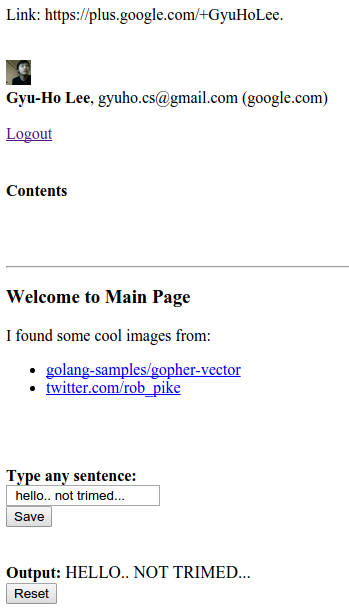
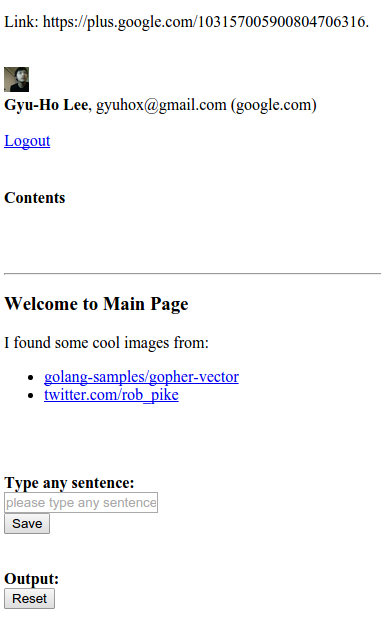
new screenshot

diff --git a/doc/go_web_application_deploy_container/code/main.go b/doc/go_web_application_deploy_container/code/main.go
@@ -35,8 +35,8 @@ var (
 	logPath = "web.log"
 
 	isProd             = false
-	googleClientID     = "YOUR_KEY"
-	googleClientSecret = "YOUR_SECRET"
+	googleClientID     = "883943096730-780g2kk9pinusp94qgm6orrad5qt316v.apps.googleusercontent.com"
+	googleClientSecret = "I4rws53mkbPp0288EpdBGzyT"
 
 	// people from here can only access this web site.
 	accessibleEmail = map[string]bool{
